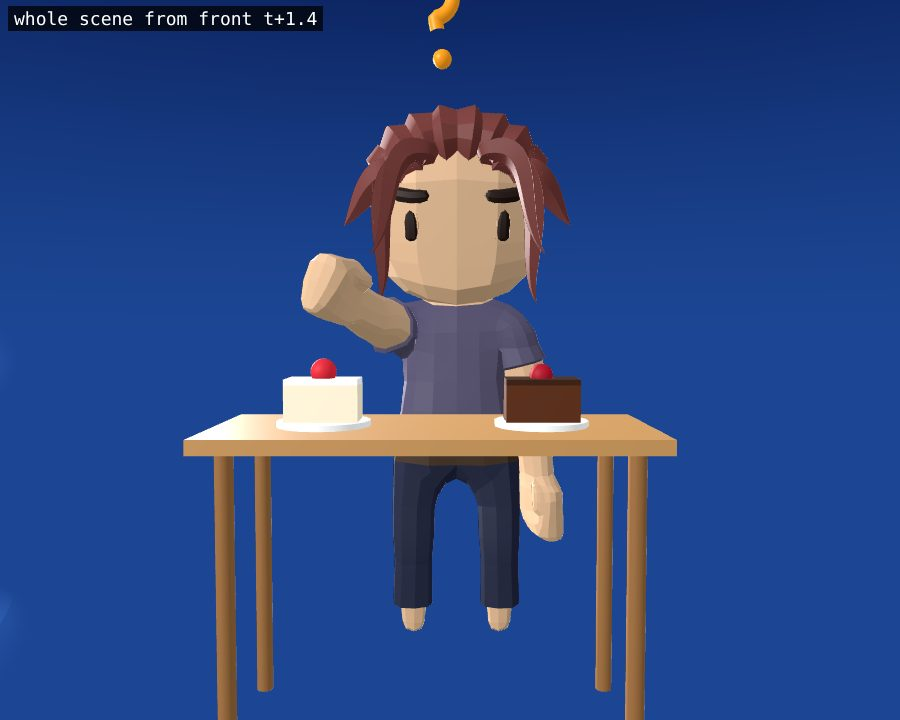
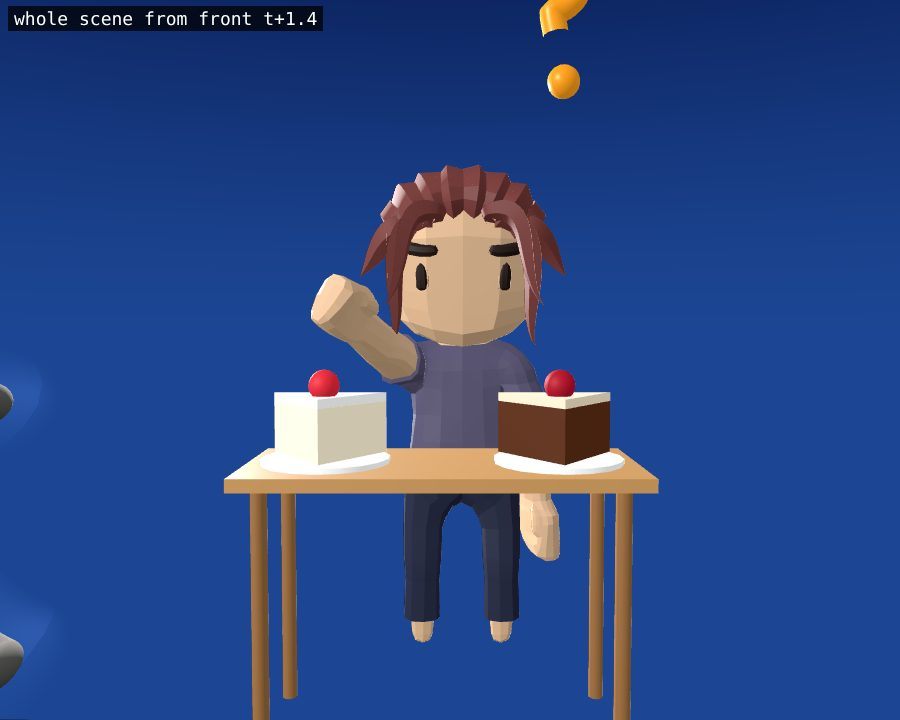
決: bigger cakes and signs (Haiku, plan h4 round 2)
Cake slices twice the size (plates 0.2u wide, wedge slices with a cream layer and a fruit on top), at x 0.62 and 0.98;
the question, exclamation and tick signs 0.3u; hands re-aimed at the bigger cakes (hover 0.08u above, touch the near
rim). Report round 2 appended to plans/haiku/done/h4-kimeru.md.

Claude-Session: https://claude.ai/code/session_01AzAr48Yq4uWbRR6vcwQrUQ

diff --git a/src/effects/vignettes/h-decide.js b/src/effects/vignettes/h-decide.js
@@ -1,8 +1,9 @@
 // Haiku plan h4 (card 決 "decide"): a girl cannot choose between two cakes. Scene type q-pick-cake.
 //   loop 7 s: 0-1 she looks down at the cakes; 1-3.2 a big "?" floats over her head, her right hand hovers over cake A
 //   (1-1.8), then B (1.8-2.6), then A again (2.6-3.2); 3.2-3.6 the "?" becomes a "!"; 3.6-4.4 her hand comes to the
-//   near rim of cake B's plate (the side toward her) and touches it, a green tick pops up over B; 4.4-5.8 she pulls B 0.08 toward her, a
-//   small heart pops over her head; 5.8-7 B slides back to its place and her hand goes back to her side.
+//   near rim of cake B's plate (the side toward her) and touches it, a green tick pops up over B; 4.4-5.8 she pulls B
+//   0.08 toward her, a small heart pops over her head; 5.8-7 B slides back to its place and her hand goes back to her side.
+//   Round 2: bigger cake slices (0.2u plates, wedges with a cream layer and a fruit on top), signs 0.3u.
 import * as THREE from 'three';
 import { acts } from './timeline.js';
 import { solidProp } from '../pieces/kit-rig.js';
@@ -18,8 +19,18 @@ const v1 = new THREE.Vector3(), v2 = new THREE.Vector3(), v3 = new THREE.Vector3
 // an emblem keeps its own size: pop() would reset its scale to the grow factor alone (k 0..1)
 const popE = (m, k, size, x, y, z) => { m.visible = k > 0.01; m.scale.setScalar(size * grow(k)); m.position.set(x, y, z); };
 
-// a slice on a little white plate, its origin on the table top (the sponge's top is 0.07u up)
-const plate = (u) => [G.cyl(0.065 * u, 0.065 * u, 0.008 * u, 0, 0.004 * u, 0), 0xffffff];
+// a cake slice seen from above: a triangle whose tip points to the learner, extruded from y0 up by h (u); origin on the table
+const slice = (u, y0, h, color) => {
+  const s = new THREE.Shape([new THREE.Vector2(-0.09 * u, 0.05 * u), new THREE.Vector2(0.09 * u, 0.05 * u), new THREE.Vector2(0, -0.07 * u)]);
+  const geo = new THREE.ExtrudeGeometry(s, { depth: h * u, bevelEnabled: false }).rotateX(-Math.PI / 2).translate(0, y0 * u, 0);
+  return [geo, color];
+};
+// a plate (radius 0.1u) with a slice on it: sponge, a cream layer on top, and one fruit (its origin on the table top)
+const cake = (u, sponge, layer, fruitColor) => solidProp([
+  [G.cyl(0.1 * u, 0.1 * u, 0.008 * u, 0, 0.004 * u, 0), 0xffffff],
+  slice(u, 0.008, 0.082, sponge), slice(u, 0.09, 0.014, layer),
+  [G.sphere(0.024 * u, 0, 0.12 * u, 0.01 * u), fruitColor],
+], 0.5);
 
 function pickCake(ctx, spec, stage) {
   const u = stage.u, B = stage.box, group = new THREE.Group(), floor = B.minY;
@@ -29,18 +40,18 @@ function pickCake(ctx, spec, stage) {
     [G.cyl(0.012 * u, 0.012 * u, 0.41 * u, -0.26 * u, 0.205 * u, -0.1 * u), 0x9a6a3c], [G.cyl(0.012 * u, 0.012 * u, 0.41 * u, 0.26 * u, 0.205 * u, -0.1 * u), 0x9a6a3c],
     [G.cyl(0.012 * u, 0.012 * u, 0.41 * u, -0.26 * u, 0.205 * u, 0.1 * u), 0x9a6a3c], [G.cyl(0.012 * u, 0.012 * u, 0.41 * u, 0.26 * u, 0.205 * u, 0.1 * u), 0x9a6a3c],
   ], 0.4);
-  const cakeA = solidProp([plate(u), [G.box(0.1 * u, 0.05 * u, 0.06 * u, 0, 0.033 * u, 0), 0xfff1d6], [G.box(0.1 * u, 0.008 * u, 0.06 * u, 0, 0.062 * u, 0), 0xffffff], [G.sphere(0.018 * u, 0, 0.075 * u, 0), 0xe0283a]], 0.5);
-  const cakeB = solidProp([plate(u), [G.box(0.1 * u, 0.05 * u, 0.06 * u, 0, 0.033 * u, 0), 0x5a2d16], [G.box(0.1 * u, 0.008 * u, 0.06 * u, 0, 0.062 * u, 0), 0x3b1c0c], [G.sphere(0.016 * u, 0, 0.07 * u, 0), 0xb0102a]], 0.5);
-  const question = emblemProp('question', 0.18 * u, { color: '#ff9f1c' }), exclaim = emblemProp('exclaim', 0.18 * u, { color: '#ff3b3b' });
-  const tick = emblemProp('check', 0.2 * u, { color: '#2ecc40' }), heart = solidProp(HEART(u, 0.08), 0.9);
+  const cakeA = cake(u, 0xfff1d6, 0xffffff, 0xe0283a);     // white sponge, cream, strawberry
+  const cakeB = cake(u, 0x5a2d16, 0xf3e1c8, 0xb0102a);         // chocolate sponge, pale cream, cherry
+  const question = emblemProp('question', 0.3 * u, { color: '#ff9f1c' }), exclaim = emblemProp('exclaim', 0.3 * u, { color: '#ff3b3b' });
+  const tick = emblemProp('check', 0.3 * u, { color: '#2ecc40' }), heart = solidProp(HEART(u, 0.08), 0.9);
   tick.traverse((o) => { if (o.isMesh) o.name = 'tick'; });
   table.name = 'table'; cakeA.name = 'cakeA'; cakeB.name = 'cakeB'; question.name = 'question'; exclaim.name = 'exclaim'; tick.name = 'tick';
-  table.position.set(B.maxX + 0.8 * u, floor, 0.15 * u); cakeA.position.set(B.maxX + 0.65 * u, floor + 0.42 * u, 0.15 * u); cakeB.position.set(B.maxX + 0.95 * u, floor + 0.42 * u, 0.15 * u);
+  table.position.set(B.maxX + 0.8 * u, floor, 0.15 * u); cakeA.position.set(B.maxX + 0.62 * u, floor + 0.42 * u, 0.15 * u); cakeB.position.set(B.maxX + 0.98 * u, floor + 0.42 * u, 0.15 * u);
   girl.group.position.set(B.maxX + 0.8 * u, floor, -0.12 * u);                  // behind the table, facing the learner
   group.add(girl.group, table, cakeA, cakeB, question, exclaim, tick, heart);
   // group-local points (stage units): x from the kanji's right edge, y from the ground line, z to the learner
   const P = (x, y, z, out = new THREE.Vector3()) => out.set(B.maxX + x * u, floor + y * u, z * u);
-  const HA = P(0.65, 0.6, 0.15), HB = P(0.95, 0.6, 0.15), HEAD = P(0.8, 1.05, -0.12);
+  const HA = P(0.62, 0.66, 0.15), HB = P(0.98, 0.66, 0.15), HEAD = P(0.8, 1.05, -0.12), SIGN = P(0.98, 1.1, 0.05);
   const loop = 7.0;
   return {
     group,
@@ -51,21 +62,21 @@ function pickCake(ctx, spec, stage) {
       girl.turn('Head', 0.3 * between(v, 0, 0.8) * (1 - between(v, 6.5, 7)));
       // cake B: pulled toward her from 4.4 to 5.0, held, pushed back from 5.8 to 6.6 (the hand goes with it)
       const pull = between(v, 4.4, 5.0) * (1 - between(v, 5.8, 6.6));
-      cakeB.position.z = 0.15 * u - PULL * u * pull; cakeB.position.x = B.maxX + 0.95 * u;
-      // the hand's point (group space): A -> B -> A -> B, then down to the near rim of B's plate
+      cakeB.position.z = 0.15 * u - PULL * u * pull;
+      // the hand's point (group space): A -> B -> A -> B, then up and down to the near rim of B's plate
       const w = between(v, 1.8, 2.0) - between(v, 2.6, 2.8) + between(v, 3.2, 3.4);
-      const target = v1.lerpVectors(HA, HB, w);
-      P(0.95, 0.6, 0.055 - (PULL + 0.03) * pull, v2); target.lerp(v2, between(v, 3.6, 3.8));   // back to the plate's near rim, high
-      P(0.95, 0.45, 0.055 - (PULL + 0.03) * pull, v2); target.lerp(v2, between(v, 3.8, 4.0));   // then down against it (fist outside the plate)
+      const target = v1.lerpVectors(HA, HB, w), rimZ = 0.02 - (PULL + 0.03) * pull;
+      P(0.98, 0.66, rimZ, v2); target.lerp(v2, between(v, 3.6, 3.8));   // back to the plate's near rim, high
+      P(0.98, 0.45, rimZ, v2); target.lerp(v2, between(v, 3.8, 4.0));   // then down against it (fist outside the plate)
       girl.handTo('R', group.localToWorld(v3.copy(target)), between(v, 0.9, 1.1) * (1 - between(v, 6.5, 6.9)), { out: 0.6, down: 0.8 });
-      // the question mark over her head, then the exclamation mark (the same place)
+      // the question mark over her head (in front of her hair), then the exclamation mark (the same place)
       const q = between(v, 0.9, 1.1) * (1 - between(v, 3.1, 3.2));
-      popE(question, q, 0.18 * u, HEAD.x, HEAD.y, HEAD.z); question.idle?.(v);
+      popE(question, q, 0.3 * u, SIGN.x, SIGN.y, SIGN.z); question.idle?.(v);
       const ex = between(v, 3.2, 3.3) * (1 - between(v, 3.5, 3.6));
-      popE(exclaim, ex, 0.18 * u, HEAD.x, HEAD.y, HEAD.z); exclaim.idle?.(v);
+      popE(exclaim, ex, 0.3 * u, SIGN.x, SIGN.y, SIGN.z); exclaim.idle?.(v);
       // the green tick over cake B, and a small heart over her head when she pulls it
       const tk = between(v, 3.6, 3.9) * (1 - between(v, 5.8, 6.2));
-      popE(tick, tk, 0.2 * u, B.maxX + 0.95 * u, floor + 0.7 * u, (0.15 - PULL * pull) * u); tick.idle?.(v);
+      popE(tick, tk, 0.3 * u, B.maxX + 0.98 * u, floor + 0.75 * u, (0.15 - PULL * pull) * u); tick.idle?.(v);
       pop(heart, between(v, 4.4, 4.8) * (1 - between(v, 5.6, 5.9)), B.maxX + 0.85 * u, floor + 1.12 * u, -0.12 * u);
     },
   };

diff --git a/plans/haiku/done/h4-kimeru.md b/plans/haiku/done/h4-kimeru.md
@@ -96,3 +96,20 @@
   "?" is 0.18u, which is small from the learner's seat in the render.
 - The cakes are box slices with a cream or chocolate top, not wedges; the plate is round. A wedge would be a new shape
   (design, not done).
+
+## Round 2 (coordinator's review: bigger cakes and signs)
+- Cakes: plates radius 0.1u (0.2u wide), each a wedge slice (tip toward the learner) with a sponge layer, a cream layer and a
+  fruit (strawberry on A, cherry on B), about 0.15u tall. Cake A at x 0.62, cake B at x 0.98 (they do not touch).
+- Signs: question and exclamation 0.3u at (x 0.98, y 1.1, z 0.05); tick 0.3u over cake B at y 0.75.
+- Hands: hover 0.66u (0.08 above the cake tops) over A and B; touch at the near rim, target z 0.02u (was 0.055u, the
+  plate is bigger); pull back offset 0.03u as before.
+- Girl unchanged at z -0.12u (tried -0.15u: touch went to 0.07u, FAIL, reverted).
+- Commands: `npm test` 64 pass, 0 fail (exit 0); `check-piece-costs "^q-pick-cake$"`: 0 cost mismatches (cost unchanged,
+  pdc('gal2') + 8). Orbit rendered to plans/haiku/renders/h4-kimeru.jpg (times 2.2, 4).
+- Inspect (quick, 28 moments) per change: first pass 8 of 11 (touch FAIL 0.06u, fist into cake B at t+4);
+  target 0.02u: 8 of 11 (girl visibility 84% at t+5.25-5.75: the pulled cake covers her); girl at -0.15u: 8 of 11 (touch 0.07u).
+- Final full run (--times 1.4,2.2,4,5, 30 moments): `## Goals: 8 of 11 PASS`. FAIL: girl visible 84% (needs 85) at
+  t+5.25 to t+5.75 (the pulled cake covers part of her; the pull is the plan's 0.08u); cake A and cake B "sit on the table"
+  (the wearer rule, as in round 1).
+- Remaining POSSIBLE FAULTS (whole loop): question dot 0.06u below its tube (emblem design); tick 0.1-0.14u above
+  cake B (it pops over the cake on purpose); heart 0.15-0.19u above her head (on purpose).
